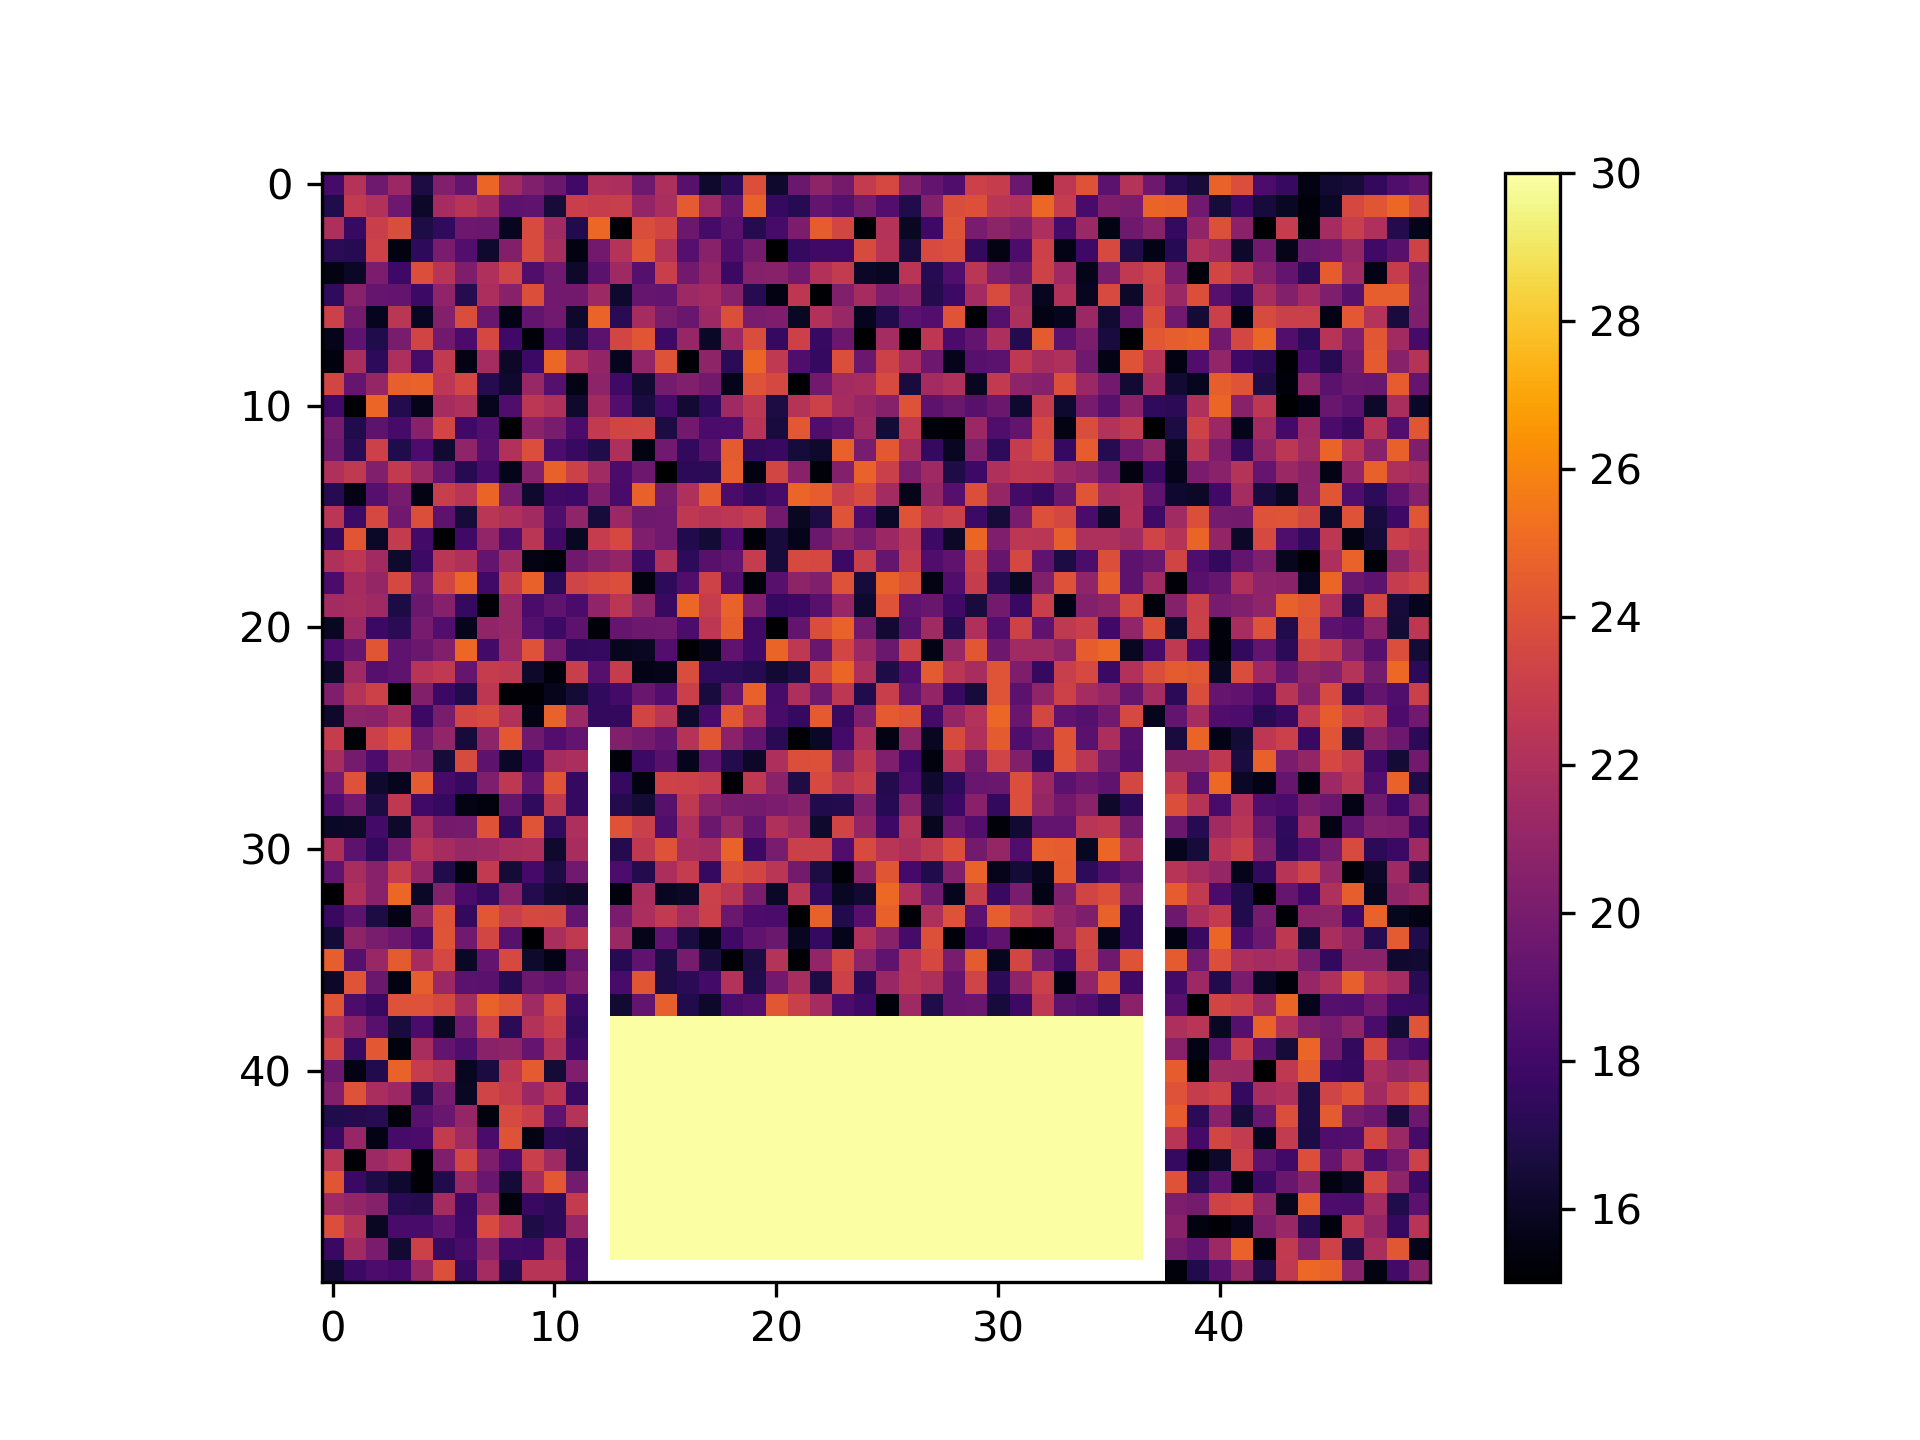
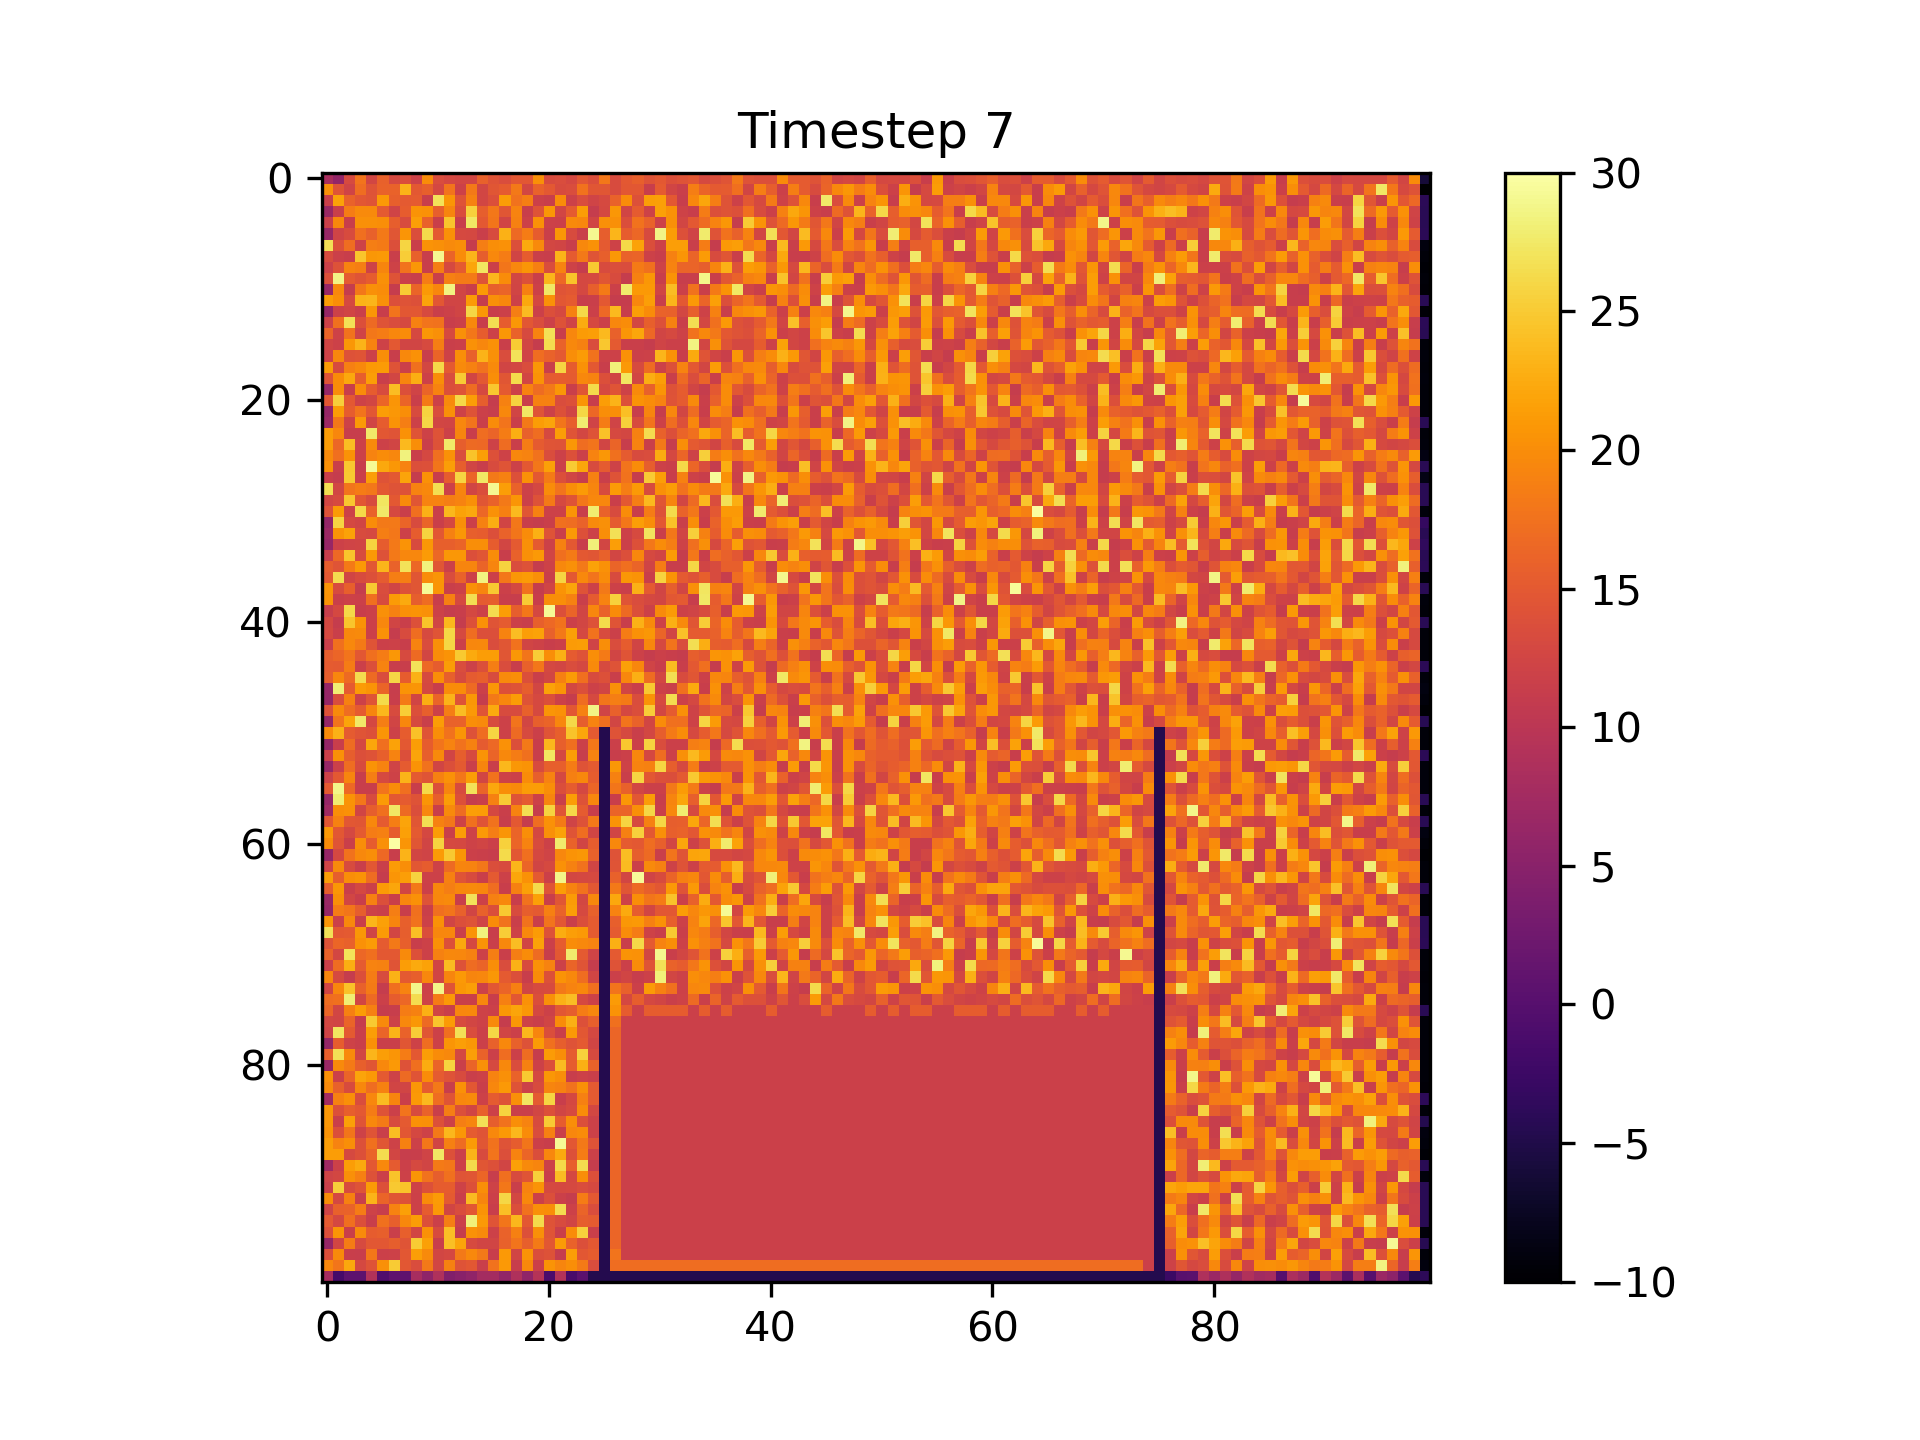
advancements were made

diff --git a/physics.py b/physics.py
@@ -88,7 +88,6 @@ def containerPreFill(container, raster, resX, resY, filling_height, fill_temp):
     fill_tr = [(container['container_tr'][0])-1,(container['container_tr'][1])-1]
 
     fill = [fill_bl,fill_tl,fill_br,fill_tr]
-    print("filling coordinates: {}".format(fill))
 
     #fill container
     x =0
@@ -130,6 +129,7 @@ def containerFill(container, temperature=20):
 #---------------------------------------------------------
 #                       PHYSICS STUFF
 
+
 def diffusion(in_raster, resX, resY, diffusion_index, container_temp):
 
     """Calculates how much the liquid rises and diffuses energy
@@ -137,65 +137,146 @@ def diffusion(in_raster, resX, resY, diffusion_index, container_temp):
 
     - based on input raster with temperatures """
 
-    temp_raster = np.zeros((resX, resY))
+    temporary_raster = np.zeros(shape=(resX, resY), dtype=int)
+    edges = [[0, resY-1],[resX-1, 0],[0, resX-1],[resY-1, 0]]
+    for edge in edges:
+        np.put(temporary_raster,edge,20)
+        print(temporary_raster)
 
-    neighbouring_cells = [(-1,-1),(0,-1),(1,-1),(-1,0),(1,0),(-1,1),(0,1),(1,1)]
     x = 0
-    try:
-        while x < resX:
 
-            y = 0
+    while x < resX-1:
 
-            while y < resY:
+        y = 0
+        while y < resY-1:
 
-                pixel = in_raster[x,y]
+            temporary_raster = decider_diffusion(in_raster,temporary_raster,x,y, diffusion_index)
+            #print(decided)
 
-
-                neighbour_values = []
-
-                for neighbour in neighbouring_cells:
-                    neighbour_values.append(in_raster[neighbour])
-
-                #print("neigbour values: {}".format(neighbour_values))
-
-                if pixel < max(neighbour_values):
-                    highest = max(neighbour_values)
-                    index = neighbour_values.index(highest)
-                    diff = highest*diffusion_index
-                    pixel += diff
-                    donator = in_raster[x+(neighbouring_cells[index][0]), y+(neighbouring_cells[index][1])]
-                    donator -= diff
+            y+=1
+        x+=1
 
 
-                elif pixel == all(neighbour_values):
-                    pass
-
-                elif pixel > min(neighbour_values):
-                    lowest = min(neighbour_values)
-                    index = neighbour_values.index(lowest)
-                    diff = pixel * diffusion_index
-                    benefactor = in_raster[x + (neighbouring_cells[index][0]), y + (neighbouring_cells[index][1])]
-                    benefactor += diff
-                    pixel -= diff
-                else:
-                    pass
-
-                y+=1
 
 
-            x+=1
 
 
-    except:
-        print("ERROR: probably np array index out of bounds")
+    out_raster = np.add(in_raster, temporary_raster)
+    return out_raster
+
+
+
+
+
+
+def decider_diffusion(in_raster, temporary_raster, x, y, diffusion_index):
+    '''decides from where to where diffusion is taking place'''
+
+    pixel = in_raster[x, y]
+
+    neighbouring_cells = [(-1, -1), (0, -1), (1, -1), (-1, 0), (1, 0), (-1, 1), (0, 1), (1, 1)]
+    neighbour_values = []
+
+    for neighbour in neighbouring_cells:
+        neighbour_values.append(in_raster[neighbour])
+
+    minimum = min(neighbour_values)
+    min_index = neighbour_values.index(minimum)
+    maximum = max(neighbour_values)
+    max_index = neighbour_values.index(maximum)
+
+    if pixel > maximum:
+        #value of pixel is highest in surroundings
+        #print("pixel value is {}, max value is {}".format(pixel, maximum))
+
+        #calculation of energy exchange
+        diff = pixel*diffusion_index
+        tempX = x+neighbouring_cells[min_index][0]
+        tempY = y+neighbouring_cells[min_index][1]
+
+        if tempX < 0 or tempY < 0:
+            #print("tried to access pixel out of bounds")
+            pass
+
+        else:
+            count = minCounter(neighbour_values)
+
+            if count > 1:
+                print(count)
+            else:
+                pass
+            temporary_raster[x, y] = pixel - diff
+            temporary_raster[tempX, tempY] += diff
+
+
+        #print("pixel at {},{} gave {} to temp_pixel at {},{}".format(x,y,diff,tempX,tempY))
+        #print("{},{}---->{},{}\n\n".format(x, y, tempX, tempY))
+
+    elif pixel < minimum:
+        #value of pixel is lowest in surroundings
+        #print("pixel value is {}, min value is {}".format(pixel, minimum))
+
+        # calculation of energy exchange
+        diff = maximum * diffusion_index
+        tempX = x + neighbouring_cells[max_index][0]
+        tempY = y + neighbouring_cells[max_index][1]
+
+        if tempX < 0 or tempY < 0:
+            #print("tried to access pixel out of bounds")
+            pass
+
+        else:
+            count = maxCounter(neighbour_values)
+            if count > 1:
+                print(count)
+            else:
+                pass
+            temporary_raster[x, y] += pixel+diff
+            temporary_raster[tempX, tempY] -= diff
+
+        #print("pixel at {},{} gave {} to temp_pixel at {},{}".format(x,y,diff,tempX,tempY))
+        #print("{},{}---->{},{}\n\n".format(x, y, tempX, tempY))
+
+    elif minimum < pixel < maximum:
+        #value of pixel is in range of surrounding values
+        #print("pixel value is {}, range is from {} to {}".format(pixel, minimum, maximum))
+
+        diff = maximum * diffusion_index
+        tempX = x + (neighbouring_cells[max_index][0])
+        tempY = y + (neighbouring_cells[max_index][1])
+
+        if tempX < 0 or tempY < 0:
+            #print("tried to access pixel out of bounds")
+            pass
+
+        else:
+            temporary_raster[x, y] += pixel+diff
+            temporary_raster[tempX,tempY] -= diff
+
+        #print("pixel at {},{} gave {} to temp_pixel at {},{}".format(x,y,diff,tempX,tempY))
+        #print("{},{}---->{},{}\n\n".format(x,y,tempX,tempY))
+
+    else:
+        #print("What the hell happened here at pixel {},{}??".format(x,y))
         pass
 
-    return in_raster
+    return temporary_raster
+
+def maxCounter(list):
+
+    count = list.count(max(list))
+    return count
+
+def minCounter(list):
+    count = list.count(min(list))
+    return count
+
+
+
+
 
 def gravity():
     """introduces gravity for liquid in container"""
-
-
     pass
 
 def materials(in_raster, resX, resY, fill_temp):

diff --git a/visualizer.py b/visualizer.py
@@ -12,11 +12,11 @@ from convectionModel.physics import *
 
 
 # raster size and timesteps
-resX = 200
+resX = 100
 resY = resX
 dpi = 300
-timesteps = 5
-container_temp = 'nan'
+timesteps = 10
+container_temp = -10
 
 # fill temperature and height of pre-filled liquid
 pre_fill = True
@@ -37,7 +37,7 @@ temperature_raster = np.zeros((resX,resY))
 while iteration < timesteps:
 
     # set up raster of environmental air temperature
-    if pre_fill== True and iteration == 0:
+    if iteration == 0:
         raster = environmental(resX, resY)
         # add container
         container = addContainer(raster, container_temp)
@@ -46,7 +46,7 @@ while iteration < timesteps:
         temperature_raster = containerPreFill(container, raster, resX, resY, filling_height, fill_temp)
 
 
-    elif pre_fill == True and iteration >=1:
+    else:
         #get materials from initial raster
         mats = materials(temperature_raster, resX, resY, fill_temp)
         # calculate temperature diffusion and updraft
@@ -58,14 +58,6 @@ while iteration < timesteps:
 
 
 
-
-
-        pass
-
-    else:
-        raster = environmental(resX, resY)
-        # add container
-        container = addContainer(raster, container_temp)
 
 
     # make sure it can be exported
@@ -80,6 +72,7 @@ while iteration < timesteps:
 
     #save image at step n
     filepath = "output/visualizationTest{}.png".format(iteration)
+    plt.title("Timestep {}".format(iteration+1))
     plt.savefig(filepath, dpi=dpi)
 
     out_rasters.append(filepath)

diff --git a/test.py b/test.py
@@ -1,7 +1,7 @@
 import numpy as np
 
-ras = np.zeros((5,5))
+test = max(0,2,2,1)
 
-ras[2,3]=2
 
-print(ras)
+
+print(test)
